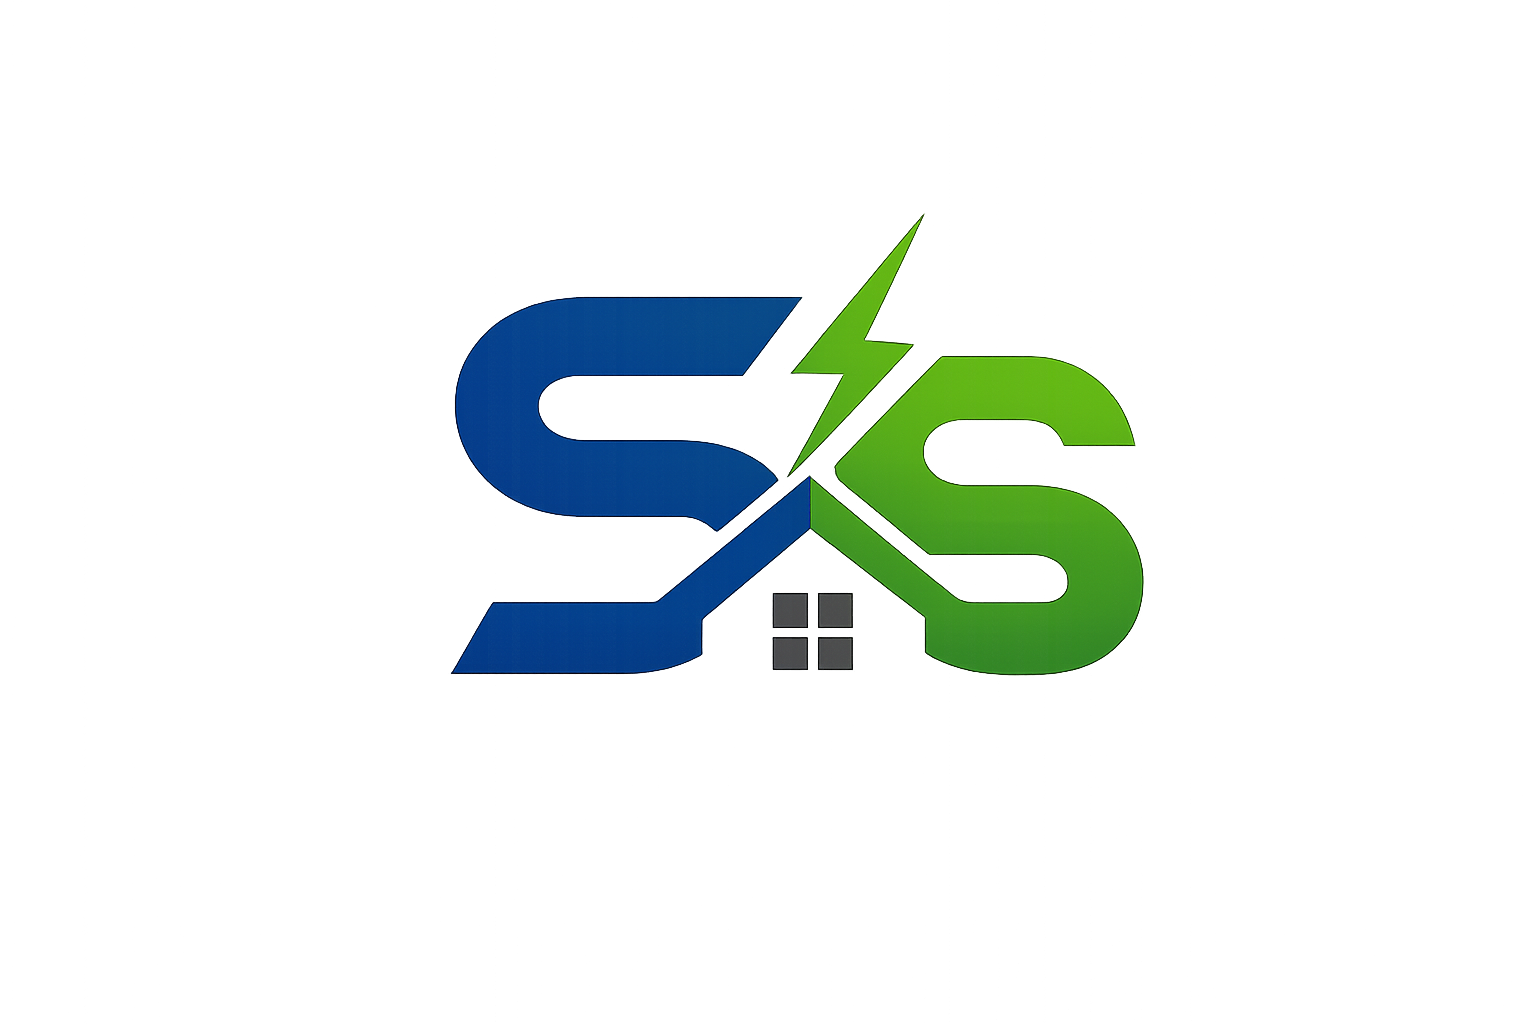
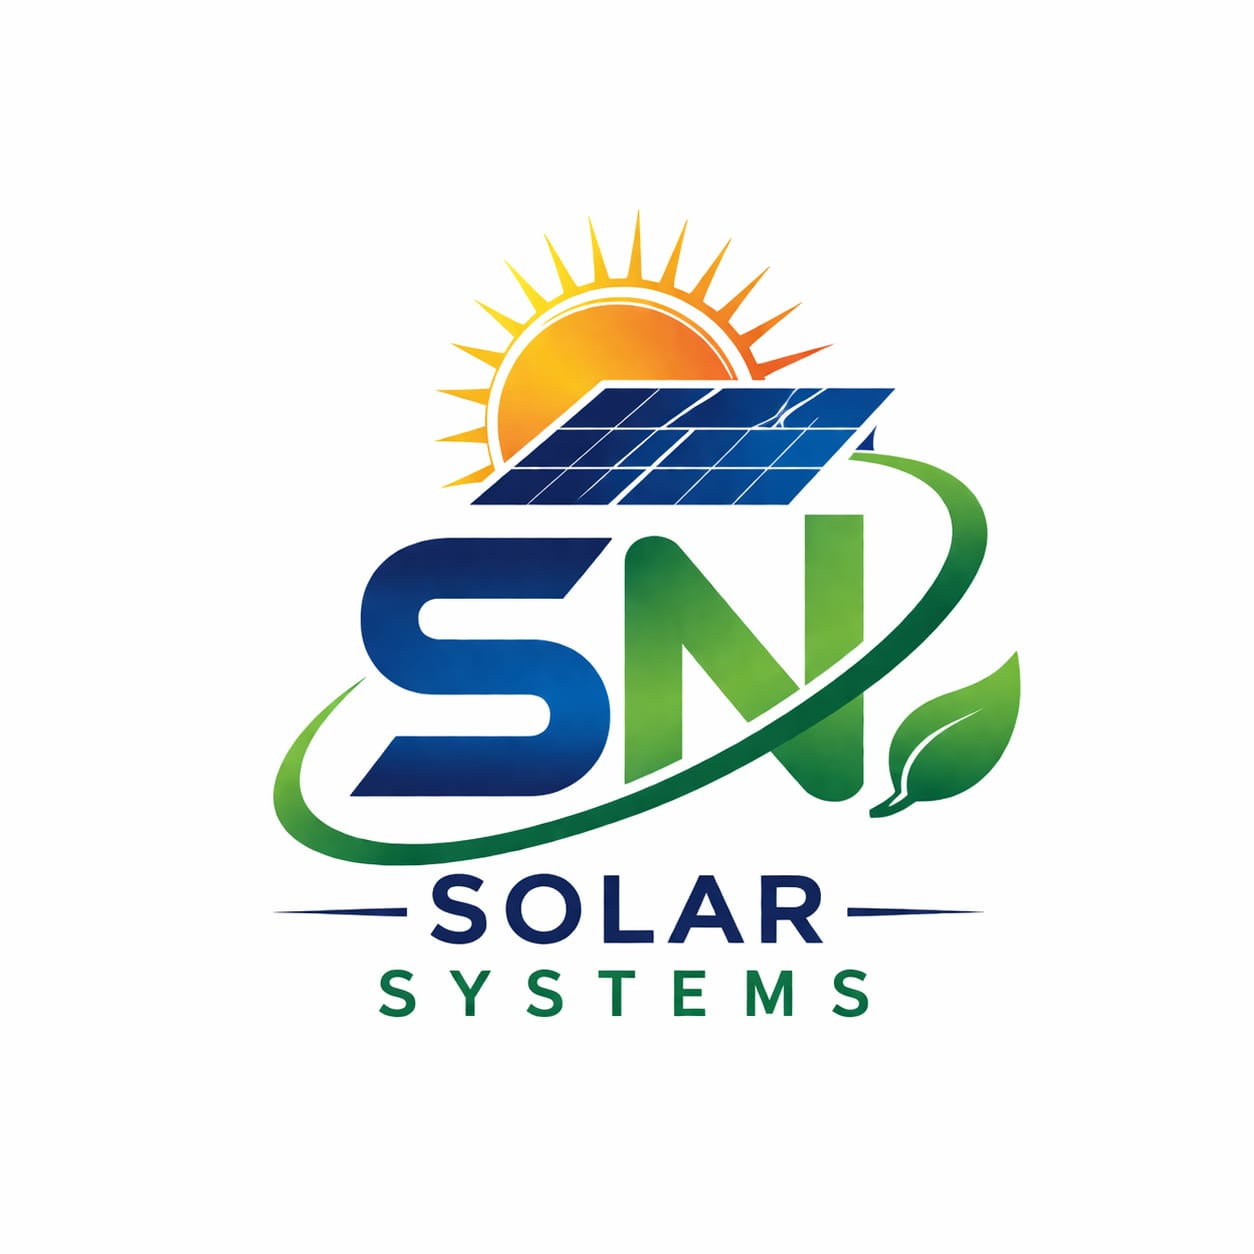
1

Changed region(s): [[0.2177, 0.1875, 0.8397, 0.8125], [0.6842, 0.7188, 0.7775, 0.75]]

diff --git a/index.html b/index.html
@@ -3,9 +3,9 @@
 <head>
 <meta charset="UTF-8">
 <meta name="viewport" content="width=device-width, initial-scale=1.0">
-<title>Sreenidhi Solutions | Solar Panels, Inverters & Batteries</title>
+<title>Sreenidhi Solutions | Solar Rooftop Systems, Inverters & Batteries</title>
 
-<meta name="description" content="Sreenidhi Solutions provides professional solar panel installation, inverters, UPS systems, batteries, and power backup solutions for homes and businesses.">
+<meta name="description" content="<meta name="description" content="Sreenidhi Solutions provides professional solar rooftop system installation, inverters, UPS systems, batteries, and power backup solutions for homes and businesses.">">
 <meta name="keywords" content="Sreenidhi Solutions, Solar Panels, Solar Installation, Inverters, Batteries, UPS, Power Backup">
 <meta name="author" content="Sreenidhi Solutions">
 